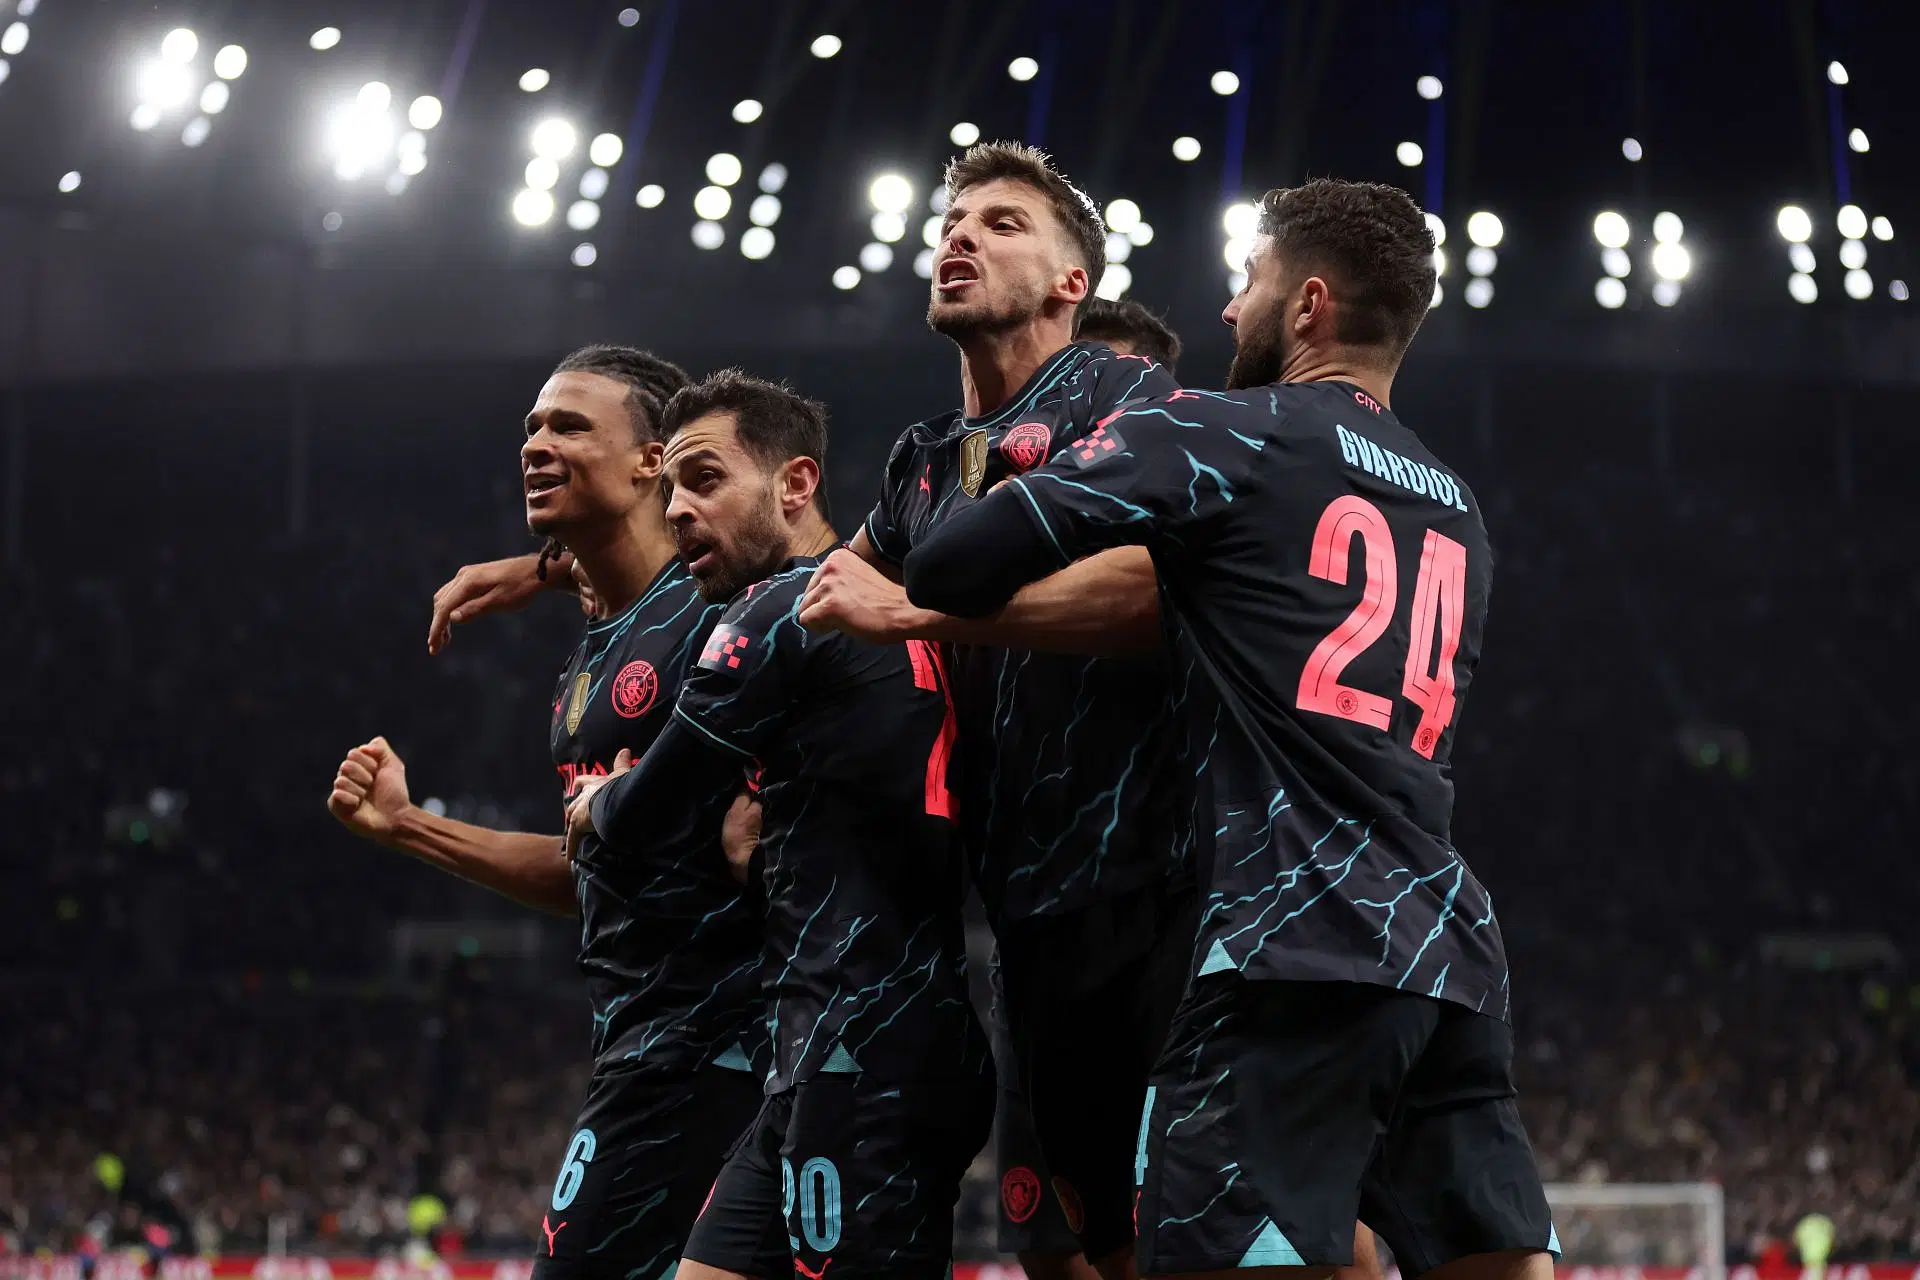
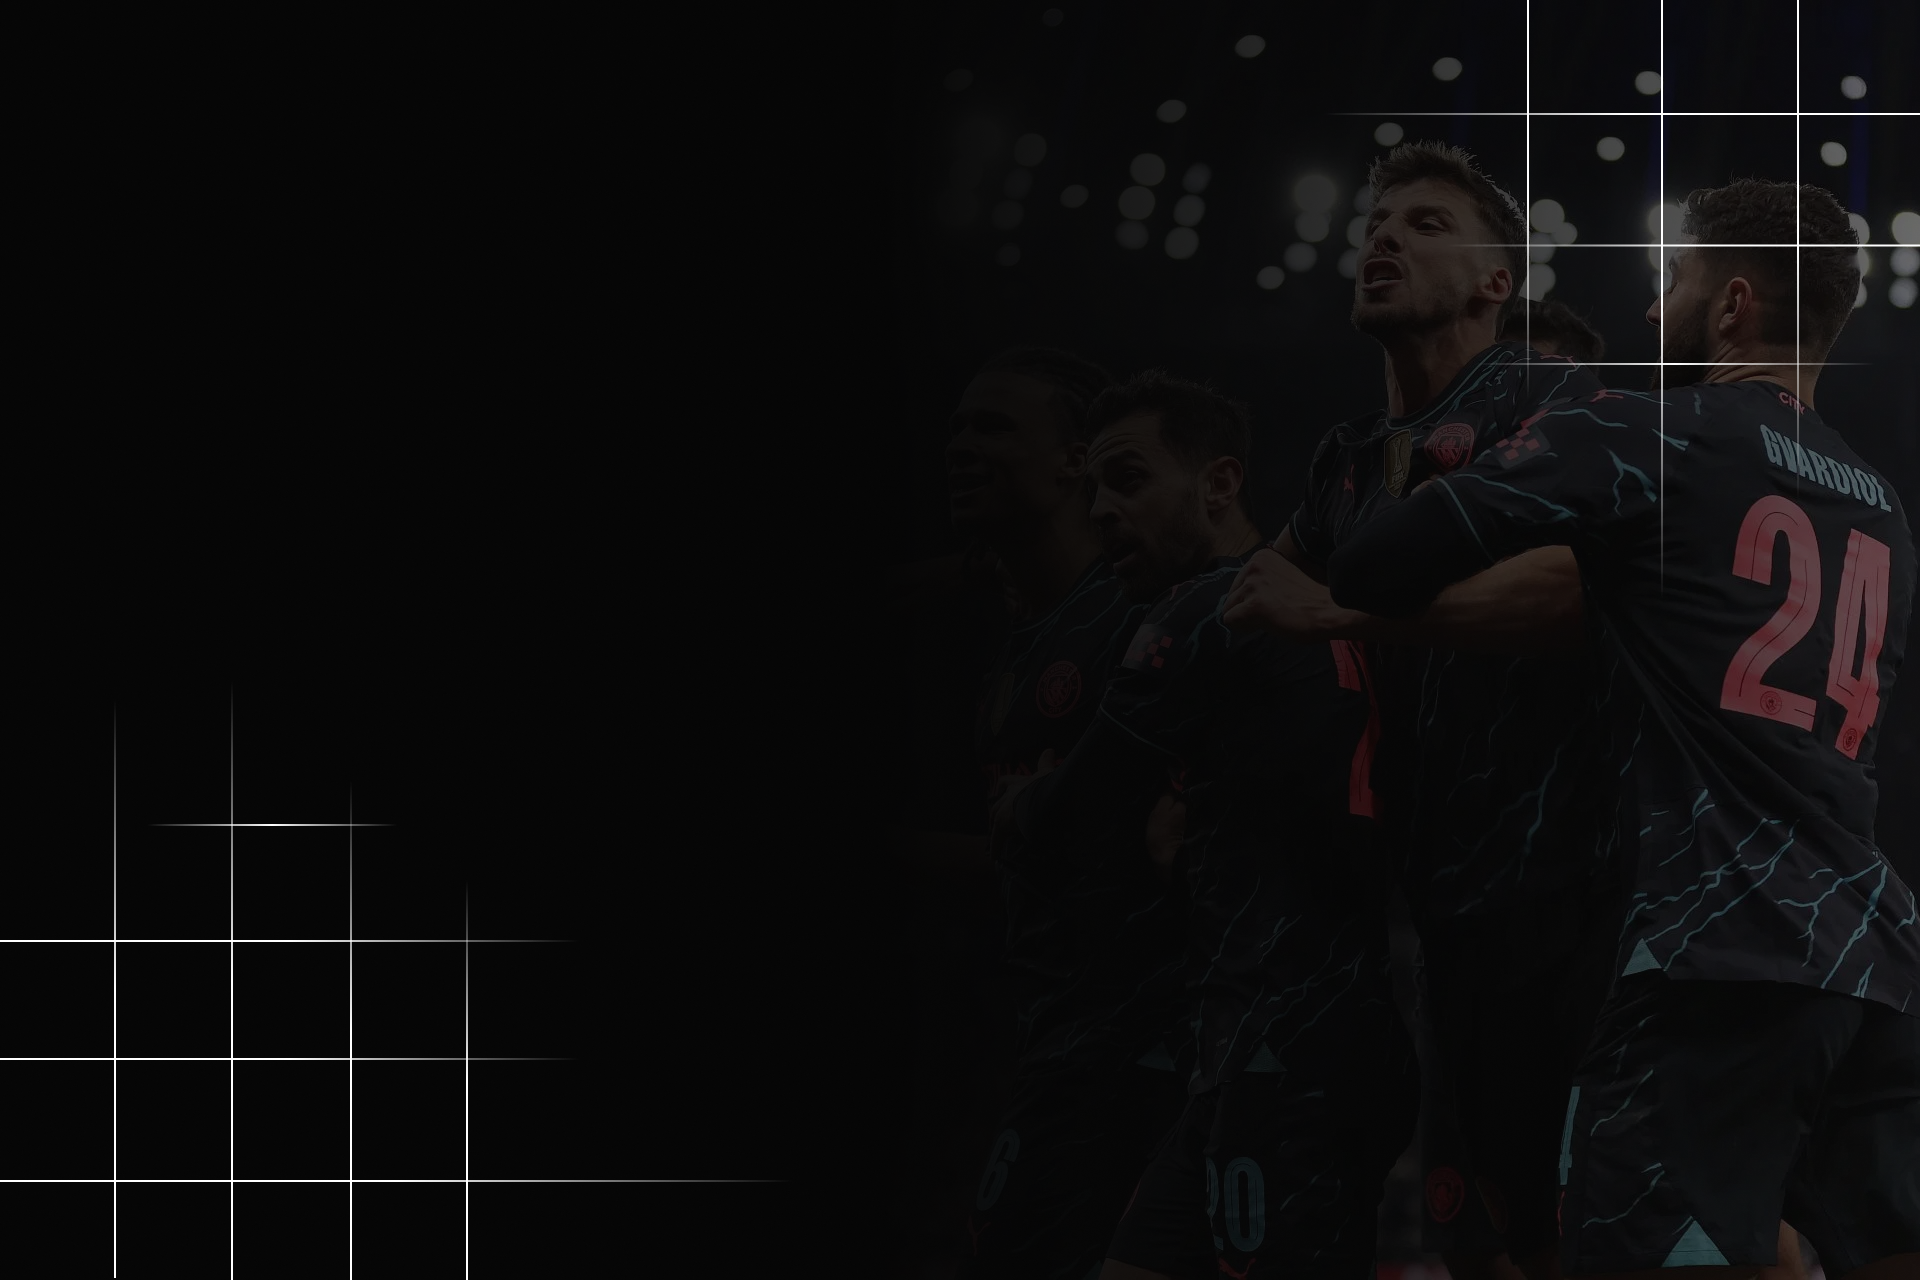
Initial commit

diff --git a/public/insights/weekly/index.html b/public/insights/weekly/index.html
@@ -1,0 +1,91 @@
+<!DOCTYPE html>
+<html lang="en">
+<head>
+<meta charset="UTF-8">
+<meta name="viewport" content="width=device-width, initial-scale=1.0, viewport-fit=cover">
+<link rel="icon" href="/pagecontent/resources/images/logo.png">
+<title>1X2S</title>
+<link rel="stylesheet" href="/pagecontent/stylesheets/global.css">
+<link rel="stylesheet" href="/pagecontent/stylesheets/fonts.css">
+<link rel="stylesheet" href="/pagecontent/stylesheets/stylesheet-insights-weekly.css">
+<link rel="stylesheet" href="/pagecontent/stylesheets/index-webkit-mobile.css">
+<link href="https://fonts.googleapis.com/css2?family=Material+Symbols+Rounded:wght@100" rel="stylesheet" />
+<link href="https://fonts.googleapis.com/css2?family=Material+Symbols+Outlined:wght@400" rel="stylesheet" />
+
+
+
+
+</head>
+
+
+<body>
+
+<page class="page-content-on-load-true">
+
+
+
+
+
+
+<nav>
+    <!-- Navbar / for pc devices -->
+    <div id="navbar"></div>
+    <script src="/pagecontent/scriptsheets/navbar.js"></script>
+    <link rel="stylesheet" href="/pagecontent/stylesheets/navbar.css">
+</nav>
+<mobilenav>
+    <!-- Navbar / for mobile devices -->
+    <div id="mobilenavbar"></div>
+    <script src="/pagecontent/scriptsheets/mobilenavbar.js"></script>
+    <link rel="stylesheet" href="/pagecontent/stylesheets/mobilenavbar.css">
+</mobilenav>  
+
+
+
+
+<section id="section1">
+
+  <div class="section1-parent-container">
+    <div class="section1-child-container">
+        
+          <div class="section1-content-text-header">
+            <h1>Weekly</h1>
+            <h2>WK 33</h2>
+          </div>
+
+          <div class="section1-content-body">
+ 
+
+          </div>
+</section>
+
+
+
+
+
+
+  <div id="footer-container"></div>
+  <script src="/pagecontent/scriptsheets/global-footer.js"></script>
+  <link rel="stylesheet" href="/pagecontent/stylesheets/footer.css">
+
+
+
+</page>
+
+
+
+
+
+
+
+
+
+
+
+
+
+</body>
+</html>
+
+
+

diff --git a/public/pagecontent/stylesheets/stylesheet-insights-weekly.css b/public/pagecontent/stylesheets/stylesheet-insights-weekly.css
@@ -1,0 +1,98 @@
+html, body {
+background-color: #050505;
+color: white;
+overflow-x: hidden;
+width: 100%;
+margin: 0;
+justify-items: center;
+justify-items: center;
+scroll-behavior: smooth;
+-webkit-font-smoothing: antialiased;
+-moz-osx-font-smoothing: grayscale;
+-webkit-text-size-adjust: 100%;
+padding: env(safe-area-inset-top) env(safe-area-inset-right) env(safe-area-inset-bottom) env(safe-area-inset-left);
+}
+* {
+margin: 0;
+padding: 0;
+box-sizing: border-box;
+}
+
+
+
+
+
+
+
+
+
+
+
+#section1{
+background-color: #050505;
+min-height: 200dvh;
+height: auto;
+width: 100vw;
+z-index: 0;
+position: relative;
+align-items: center;
+display: block;
+justify-content: center;
+flex-direction: column;
+
+}
+
+
+.section1-parent-container{
+position: relative;
+top: 0;
+left: 0;
+width: 100%;
+height: 100vh;
+display: flex;
+justify-content: center;
+flex-direction: column;
+justify-content: center;
+align-items: center;
+}
+.section1-child-container{
+width: 100%;
+height: 100%;
+top: 150px;
+position: relative;
+display: flex;
+align-items: center;
+flex-direction: column;
+}
+.section1-content-text-header{
+display: flex;
+flex-direction: column;
+text-align: left;
+justify-content: left;
+}
+.section1-content-text-header h1{
+font-family: montserrat;
+font-size: 30px;
+font-weight: 600;
+color: white;
+}
+.section1-content-text-header h2{
+font-family: montserrat;
+font-size: 18px;
+font-weight: 600;
+color: white;
+}
+.section1-content-body{
+font-family: montserrat;
+font-size: 16px;    
+font-weight: 300;
+color: white;
+align-items: center;
+justify-content: center;
+display: flex;
+}
+
+
+
+
+

diff --git a/public/index.html b/public/index.html
@@ -71,6 +71,7 @@
 
     <section id="section1">
     <div class="section-1-front-image">
+      <!--
     <script>
 document.addEventListener("DOMContentLoaded", () => {
   const img = document.querySelector(".section-1-front-image img");
@@ -79,10 +80,10 @@ document.addEventListener("DOMContentLoaded", () => {
   let ticking = false;
 
   function updateEffects() {
-          img.style.transform = `translate(-50%, calc(-50% + ${latestScrollY * 0.5}px)) scale(1.5)`;
+          img.style.transform = `translate(-50%, calc(-50% + ${latestScrollY * 0.5}px)) scale(1)`;
 
           if (latestScrollY > 20) {
-            frontImage.style.filter = "blur(2px)";
+            frontImage.style.filter = "blur(0px)";
           } else {
             frontImage.style.filter = "none";
           }
@@ -100,13 +101,14 @@ document.addEventListener("DOMContentLoaded", () => {
       });
 
     </script>
+    -->
     <img src="/pagecontent/resources/images/image-city-celebration-limited-png.png.png" alt="frontpageimg">
     </div>
             <div class="section1-parent-container1">
                     <h2 style="font-family: zendots; opacity: 1; color: black;">1X2S</h2>
           <div class="section1-parent-title-container">
                 <h1 style="margin: 0;">Game <a>is</a><span style="color: rgb(255, 56, 56);"> Game</span></h1>
-                <h2>Advanced Analytics and Insights based on Artificial Intelligence</h2>
+                <h2>Advanced AI Pipeline Built for Sports Integration and Analytics.</h2>
             </div>
 
 

diff --git a/public/insights/index.html b/public/insights/index.html
@@ -58,7 +58,9 @@
         <li><img src="/pagecontent/resources/images/league-icons/champions-league.png" alt=""><a href="/insights/uefa-champions-league">UEFA Champions League</a></li>
         <li><img src="/pagecontent/resources/images/league-icons/uel.png" alt=""><a href="/insights/1x2s/1x2s-betslip">UEFA Europa League</a></li>
         <li><img src="/pagecontent/resources/images/league-icons/uecl.png" alt=""><a href="/insights/1x2s/1x2s-odds">UEFA Conference League</a></li>
-      </ul>
+        <h1>General</h1>
+        <li><span class="material-symbols-outlined">calendar_month</span><img src="/pagecontent/resources/images/league-icons/1x2s.png" alt=""><a href="/insights/weekly">Weekly Insights</a></li>
+      </ul> 
     </div>
 
 

diff --git a/public/pagecontent/stylesheets/index.css b/public/pagecontent/stylesheets/index.css
@@ -47,9 +47,9 @@ width: 100%;
 height: auto;
 position: fixed;
 top: 50%;
-opacity: 8%;
+opacity: 100%;
 left: 50%;
-transform: translate(-50%, -50%) scale(1.2);
+transform: translate(-50%, -50%) scale(1);
 will-change: transform;
 z-index: 1;
 }
@@ -110,7 +110,7 @@ flex-direction: column;
 line-height: 1;
 }
 .section1-parent-title-container a{
-font-size:.7em;
+font-size:.6em;
 font-family: orbitron;
 font-weight: 600;
 }

diff --git a/public/pagecontent/stylesheets/stylesheet-insights.css b/public/pagecontent/stylesheets/stylesheet-insights.css
@@ -109,7 +109,16 @@ font-weight: 600;
 width: 30px;
 height: auto;
 }
-
+.section3-side-bar-content .material-symbols-outlined{
+color: white;
+font-size: 18px !important;
+font-weight: 200;
+  font-variation-settings :
+  'FILL' 0,
+  'wght' 200, 
+  'GRAD' 0, 
+  'opsz' 14 !important
+}
 
 
 
